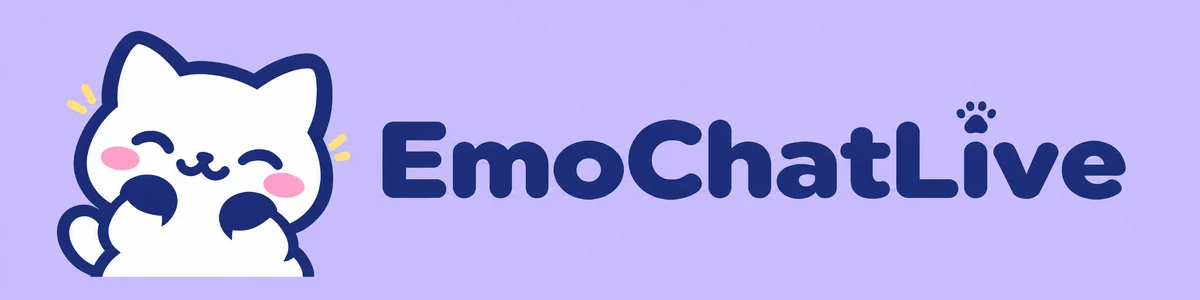
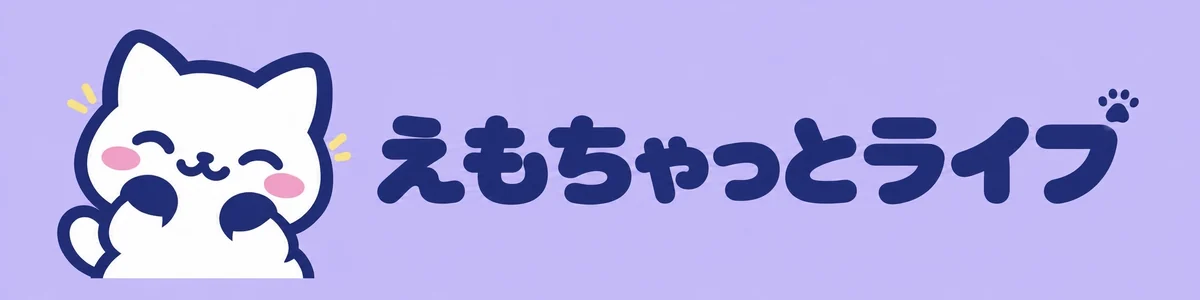
バナーを日本語ロゴ版に（cache v12）

diff --git a/sw.js b/sw.js
@@ -11,7 +11,7 @@
  *   Supabase からの応答（自分の視聴記録）は控えない。控えると、ログアウトしても端末に残ってしまうため。
  *   記録の控えは app.js が localStorage に 1 日分だけ持ち、ログアウトで消す。
  */
-const CACHE_NAME = "emocha-pwa-v11"; // 2026-10-14 v7: app.js・vendor を分けた / v8: 横長バナー / v9: 数字のアイコンを SVG に / v10: EmoChatLive バナー・下のタブも SVG
+const CACHE_NAME = "emocha-pwa-v12"; // 2026-10-14 v7: app.js・vendor を分けた / v8: 横長バナー / v9: 数字のアイコンを SVG に / v10: EmoChatLive バナー・下のタブも SVG
 const APP_SHELL = ["./", "./index.html", "./app.js", "./vendor/supabase.js", "./manifest.webmanifest", "./WEBアプリアイコン.png", "./banner.webp"];
 
 self.addEventListener("install", (event) => {

diff --git a/index.html b/index.html
@@ -2050,9 +2050,9 @@
 
       <!-- 🏠 ホーム -->
       <section class="view" id="view-home" data-view="home">
-        <!-- 横長のバナー（ラベンダー地に白ねこと EmoChatLive のロゴ。2026-10-14 依頼者: ハムスターと吹き出しをやめてこのバナーに） -->
+        <!-- 横長のバナー（ラベンダー地に白ねこと「えもちゃっとライブ」のロゴ（日本語版。2026-10-14 依頼者）） -->
         <div class="app-banner">
-          <img src="./banner.webp" alt="EmoChatLive" width="1200" height="300" />
+          <img src="./banner.webp" alt="えもちゃっとライブ" width="1200" height="300" />
         </div>
 
         <p class="sync-status" id="homeSyncStatus" hidden></p>
